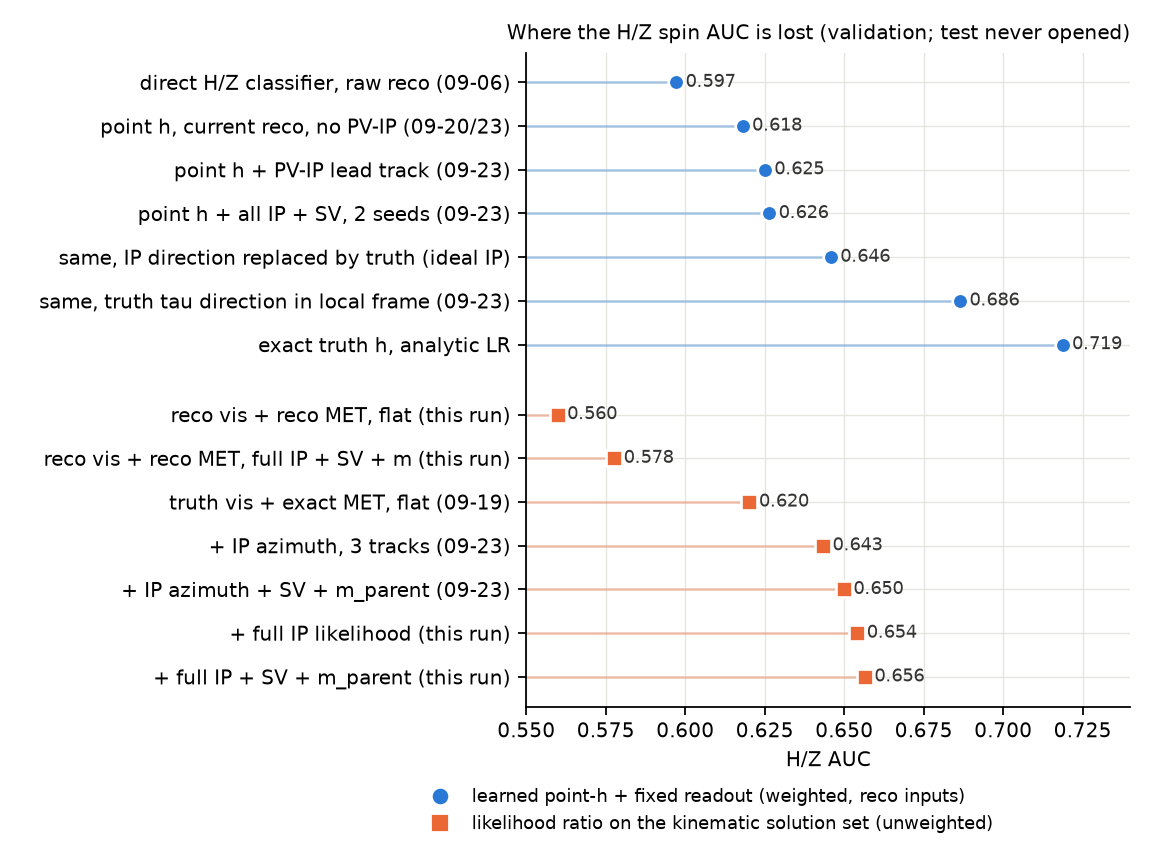
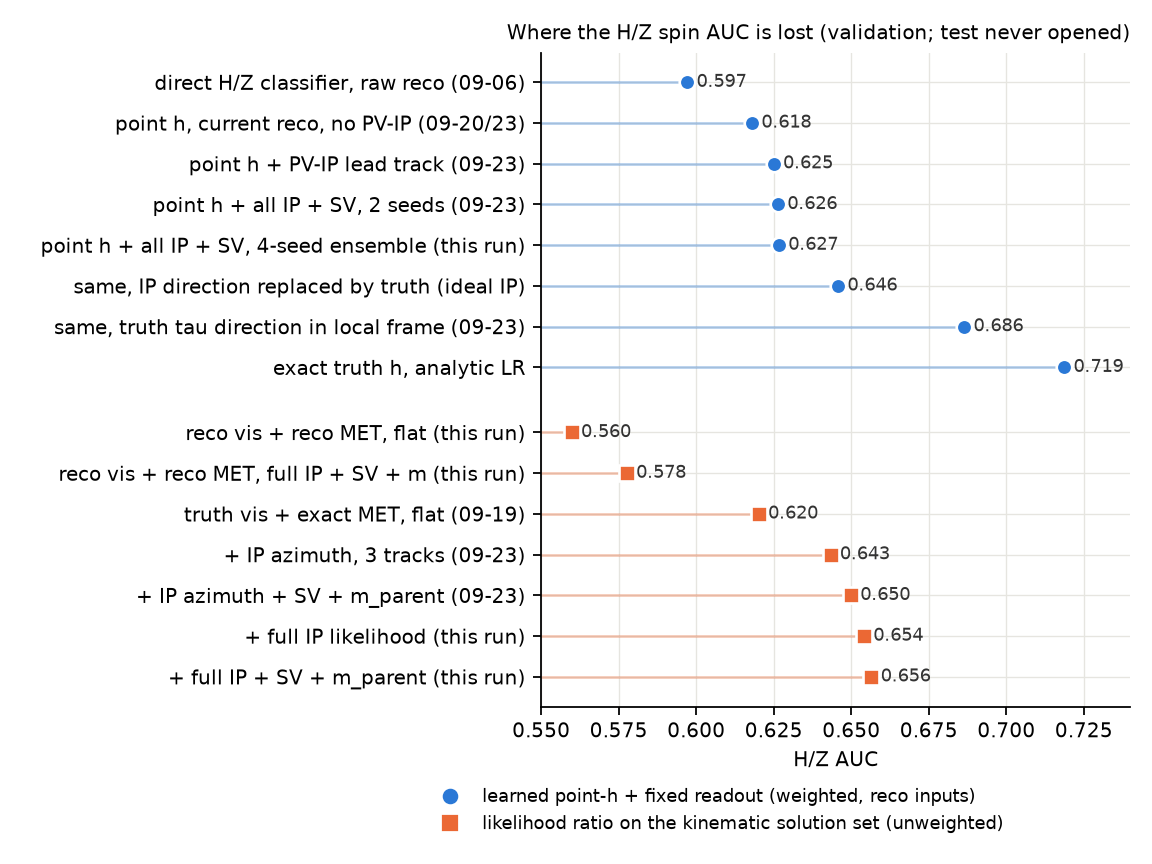
Synthesis run: seeds, v3 geometry, IP requirement curve and final figures
Four-seed ensemble of the PV-IP point-h learner, the v3 geometry arm with
explicit IP error ellipses (no gain), the simulated-IP resolution
requirement curve, and the final figure set.

diff --git a/analysis/hz_spin_synthesis/s9_figures.py b/analysis/hz_spin_synthesis/s9_figures.py
@@ -39,7 +39,7 @@ def fig_ladder():
         ("point h + all IP + SV, 2 seeds (09-23)", x1["f22ens_hard"]),
     ]
     if "best" in fin:
-        learned.append(("point h + all IP + SV, best of this run", fin["best"]))
+        learned.append(("point h + all IP + SV, 4-seed ensemble (this run)", fin["best"]))
     learned += [
         ("same, IP direction replaced by truth (ideal IP)", x1["ideal_hard"]),
         ("same, truth tau direction in local frame (09-23)", 0.6864),          # beyond-ceiling oracle
